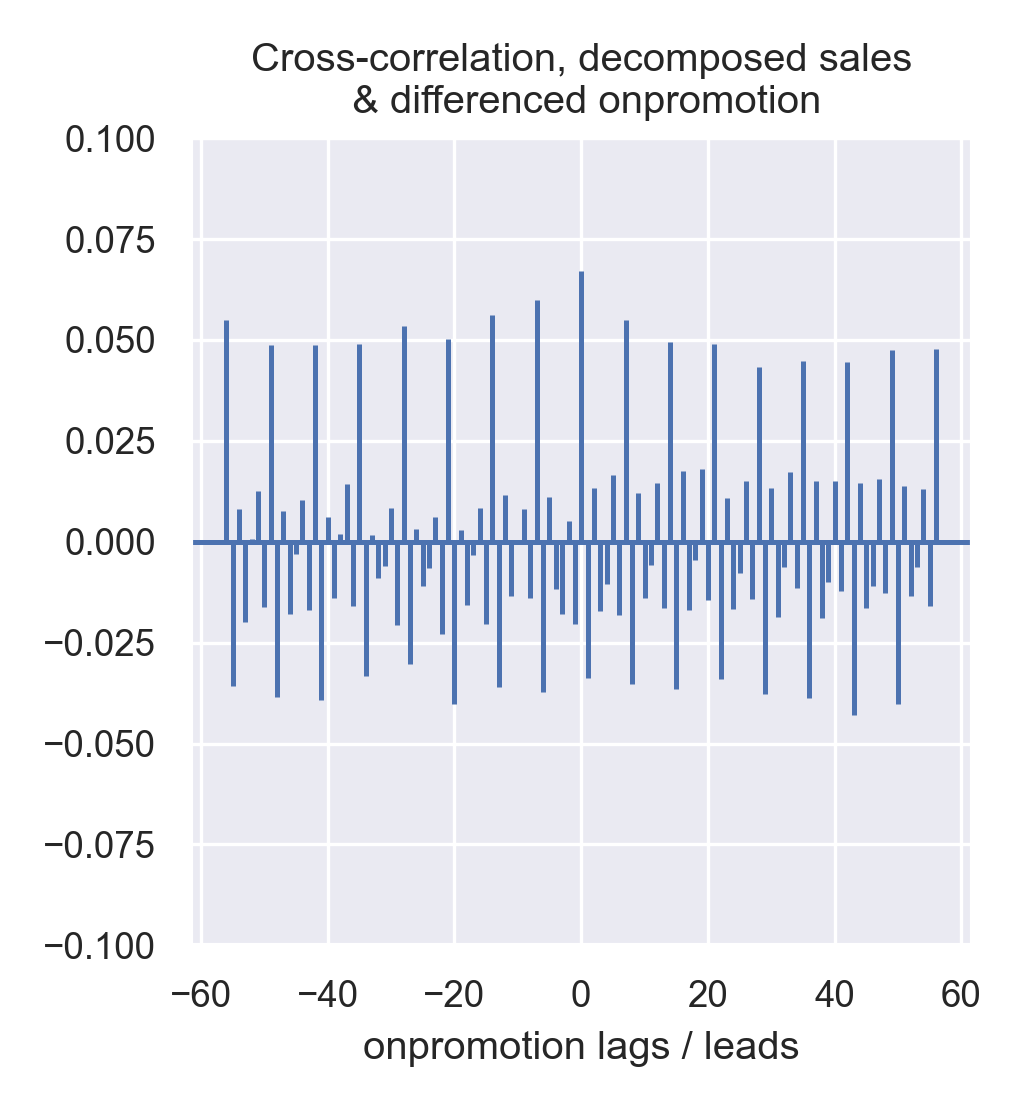
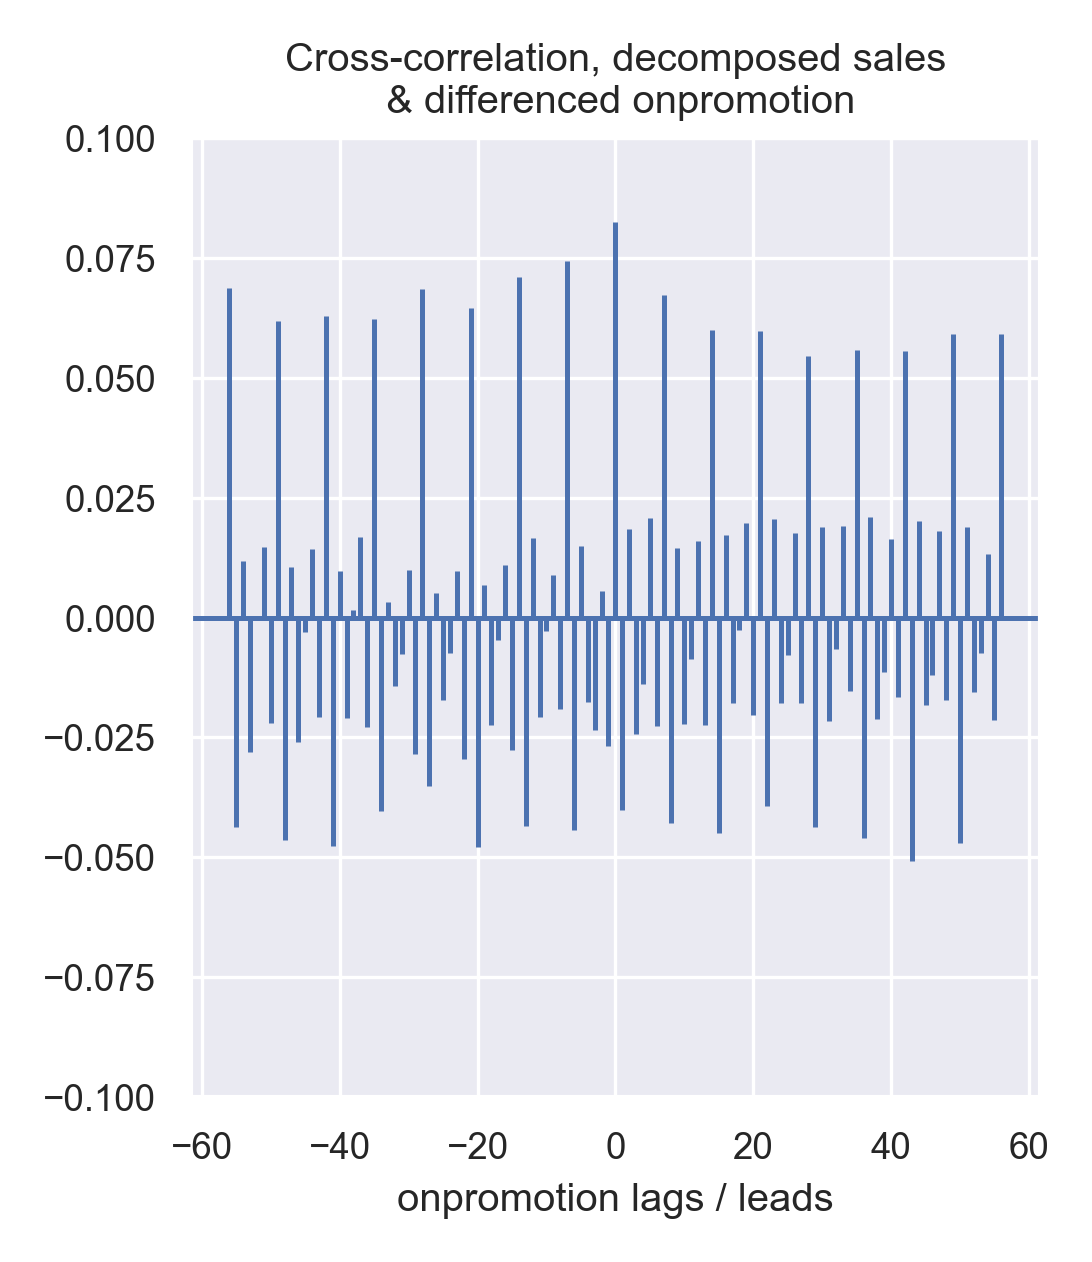
Finish testing darts decomposition on 2017

diff --git a/ModelLags.py b/ModelLags.py
@@ -1,0 +1,189 @@
+# TIME SERIES REGRESSION PART 1 - KAGGLE STORE SALES COMPETITION
+
+
+# TIME EFFECTS LAGS & COVARIATES MODEL SCRIPT
+
+import pandas as pd 
+import numpy as np
+import matplotlib.pyplot as plt
+import seaborn as sns
+
+
+# Set printing options
+np.set_printoptions(suppress=True, precision=4)
+pd.options.display.float_format = '{:.4f}'.format
+
+
+# Set plotting options
+plt.rcParams['figure.dpi'] = 300
+plt.rcParams['savefig.dpi'] = 300
+plt.rcParams["figure.autolayout"] = True
+sns.set_theme(context="paper")
+
+
+# Load 13-17 original sales
+from darts import TimeSeries
+df_train = pd.read_csv(
+  "./ModifiedData/Final/train_modified_timefeats.csv", encoding="utf-8")
+df_train = df_train.set_index(pd.to_datetime(df_train.date))
+df_train = df_train.drop("date", axis=1)
+total_sales = df_train.groupby("date").sales.sum()
+ts_orig = TimeSeries.from_series(total_sales, freq="D")
+from darts.dataprocessing.transformers import MissingValuesFiller
+na_filler = MissingValuesFiller()
+ts_orig = na_filler.transform(ts_orig)
+
+
+# Load 14-17 decomposed sales and covariates
+sales_covars = pd.read_csv(
+  "./ModifiedData/Final/sales_decomped_feats.csv", encoding="utf-8")
+
+
+# Set datetime index
+sales_covars = sales_covars.set_index(pd.to_datetime(sales_covars.date, dayfirst=True))
+sales_covars = sales_covars.drop("date", axis=1)
+
+
+# Create darts time series from decomposed sales sales series
+ts = TimeSeries.from_series(sales_covars["sales"], freq="D")
+
+
+# Make Darts time series with lags & covariates
+ts_covars = TimeSeries.from_dataframe(
+  sales_covars[["oil_ma336", "trns_ma7"]], freq="D", fill_missing_dates=False)
+
+
+# Load 14-17 time preds, make darts series
+preds_time = TimeSeries.from_csv(
+  "./ModifiedData/Final/preds_model1.csv", time_col = "time", freq = "D")
+
+
+# Define functions to perform log transformation and reverse it
+def trafo_log(x):
+  return x.map(lambda x: np.log(x+1))
+
+def trafo_exp(x):
+  return x.map(lambda x: np.exp(x)-1)
+
+
+# Train-test split (pre-post 2017)
+y_train, y_val = ts[:-227], trafo_log(ts_orig[-227:])
+x_train, x_val = ts_covars[:-227], ts_covars[-227:]
+
+
+# Scale covariates
+from sklearn.preprocessing import StandardScaler
+from darts.dataprocessing.transformers import Scaler
+scaler = Scaler(StandardScaler())
+x_train = scaler.fit_transform(x_train)
+x_val = scaler.transform(x_val)
+
+
+# Specify models: Baseline, ARIMA, linear, random forest
+from darts.models.forecasting.baselines import NaiveDrift, NaiveSeasonal
+from darts.models.forecasting.arima import ARIMA
+from darts.models.forecasting.linear_regression_model import LinearRegressionModel
+from darts.models.forecasting.random_forest import RandomForest
+
+model_drift = NaiveDrift()
+model_seasonal = NaiveSeasonal()
+
+model_arima = ARIMA(p = 1, d = 0, q = 0, trend = "n", random_state = 1923)
+
+model_linear = LinearRegressionModel(
+  lags = 1,
+  lags_future_covariates = [0])
+  
+model_forest = RandomForest(
+  lags = 1,
+  lags_future_covariates = [0], 
+  random_state = 1923,
+  n_jobs = 3)
+
+
+# Fit models on train data (pre-2017), predict validation data (2017)
+model_drift.fit(y_train)
+pred_drift = model_drift.predict(n = 227) + preds_time[-227:]
+
+model_seasonal.fit(y_train)
+pred_seasonal = model_seasonal.predict(n = 227) + preds_time[-227:]
+
+model_arima.fit(y_train)
+pred_arima = model_arima.predict(n = 227) + preds_time[-227:]
+
+model_linear.fit(y_train, future_covariates = x_train)
+pred_linear = model_linear.predict(n = 227, future_covariates = x_val) + preds_time[-227:]
+
+model_forest.fit(y_train, future_covariates = x_train)
+pred_forest = model_forest.predict(n = 227, future_covariates = x_val) + preds_time[-227:]
+
+
+# Define model scoring function
+from darts.metrics import mape, rmse, rmsle
+def perf_scores(val, pred, model="drift"):
+  
+  scores_dict = {
+    "RMSE": rmse(trafo_exp(val), trafo_exp(pred)), 
+    "RMSLE": rmse(val, pred), 
+    "MAPE": mape(trafo_exp(val), trafo_exp(pred))
+      }
+      
+  print("Model: " + model)
+  
+  for key in scores_dict:
+    print(
+      key + ": " + 
+      str(round(scores_dict[key], 4))
+       )
+  print("--------")  
+
+
+# Score models' performance
+perf_scores(y_val, pred_drift, model="Naive drift")
+perf_scores(y_val, pred_seasonal, model="Naive seasonal")
+perf_scores(y_val, pred_arima, model="ARIMA")
+perf_scores(y_val, pred_linear, model="Linear")
+perf_scores(y_val, pred_forest, model="Random forest")
+
+
+# FIG14: Plot models' predictions against actual values
+fig14, axes14 = plt.subplots(3, sharex=True, sharey=True)
+fig14.suptitle("Actual vs. predicted sales, hybrid models,\n black = Actual")
+
+# ARIMA
+trafo_exp(y_val).plot(ax = axes14[0], label="Actual")
+trafo_exp(pred_arima).plot(ax = axes14[0], label="Predicted")
+axes14[0].set_title("Linear regression + ARIMA")
+
+# Linear regression
+trafo_exp(y_val).plot(ax = axes14[1], label="Actual")
+trafo_exp(pred_linear).plot(ax = axes14[1], label="Predicted")
+axes14[1].set_title("Linear regression + Linear regression")
+
+# Random forest
+trafo_exp(y_val).plot(ax = axes14[2], label="Actual")
+trafo_exp(pred_forest).plot(ax = axes14[2], label="Predicted")
+axes14[2].legend("", frameon = False)
+axes14[2].set_title("Linear regression + Random forest")
+
+# Show fig14
+plt.show()
+fig14.savefig("./Plots/LagsModel/2017test.png", dpi=300)
+plt.close("all")
+
+
+# Go back to ModelTime's end
+
+# Perform decomposition in Sklearn:
+  # Fit, predict and retrieve residuals for 2013-2016 (train)
+  # Predict and retrieve residuals for 2017 (valid)
+  # Add them together and export them, use the preds as model 1 preds, and residuals as model 2 train
+
+# Redo Lags EDA with Sklearn decomposed residuals
+
+# Redo ModelLags with new features, Sklearn time preds and decomposed residuals
+
+
+
+
+

diff --git a/ModelTime.py b/ModelTime.py
@@ -106,8 +106,7 @@ model_fft = FFT(
 )
 
 model_linear = LinearRegressionModel(
-  lags_future_covariates = [0],
-  output_chunk_length = 15)
+  lags_future_covariates = [0])
 
 
 # Fit models on train data (pre-2017), predict validation data (2017)
@@ -172,23 +171,26 @@ plt.close("all")
 
 
 # Backtest linear regression
-# array([120080.4214,         nan,     31.611 ])
+# array([78298.2808,     0.1552,    20.0684])
 model_linear.backtest(
-  ts, future_covariates = ts_timefeats, start = 365,
-  forecast_horizon = 15, stride = 1, metric = [rmse, rmsle, mape],
+  ts, 
+  future_covariates = ts_timefeats, 
+  start = 365, stride = 1, 
+  metric = [rmse, rmsle, mape],
   verbose = True)
 
 
-# Retrieve historical forecasts for linear regression
+# Retrieve historical forecasts and 14-17 decomposed residuals for linear regression
 pred_linear_hist = model_linear.historical_forecasts(
-  ts, future_covariates = ts_timefeats, start = 365,
-  forecast_horizon = 15, stride = 1,
+  trafo_log(ts), 
+  future_covariates = ts_timefeats, start = 365, stride = 1,
   verbose = True)
+res_linear = trafo_log(ts[365:]) - pred_linear_hist
 
 
 # Plot historical forecasts for linear regression
 ts.plot(label="Actual")
-pred_linear_hist.plot(label="Predicted")
+trafo_exp(pred_linear_hist).plot(label="Predicted")
 plt.title("Time decomposition linear model,\n historical forecasts")
 plt.ylabel("sales")
 plt.show()
@@ -196,24 +198,16 @@ plt.savefig("./Plots/TimeModel/LinearHistorical.png", dpi=300)
 plt.close("all")
 
 
-# Retrieve predictions and residuals for 2014-2017
-res_linear = model_linear.residuals(
-  trafo_log(ts), future_covariates = ts_timefeats, forecast_horizon = 1,
-  verbose = True)
-sales_decomped = res_linear[350:]
-preds_time = trafo_log(ts[365:]) - res_linear[350:]
-
-
 # Diagnose decomped sales innovation residuals
 from darts.utils.statistics import plot_residuals_analysis, plot_pacf
-plot_residuals_analysis(sales_decomped)
+plot_residuals_analysis(res_linear)
 plt.show()
 plt.savefig("./Plots/TimeModel/InnoResidsDiag.png", dpi=300)
 plt.close("all")
 
 
 # PACF plot of decomped sales residuals
-plot_pacf(sales_decomped, max_lag=56)
+plot_pacf(res_linear, max_lag=56)
 plt.title("Partial autocorrelation plot,\n time decomposed sales")
 plt.xlabel("Lags")
 plt.ylabel("PACF")
@@ -228,15 +222,17 @@ plt.close("all")
 
 # KPSS and ADF stationarity test on decomped sales residuals
 from darts.utils.statistics import stationarity_test_kpss, stationarity_test_adf
-stationarity_test_kpss(sales_decomped) # Null rejected, data is non-stationary
-stationarity_test_adf(sales_decomped) # Null rejected, data is stationary around a constant
+stationarity_test_kpss(res_linear) # Null rejected, data is non-stationary
+stationarity_test_adf(res_linear) # Null rejected, data is stationary around a constant
 
 
-# Save decomposed sales for lags & covariates EDA
-sales_decomped.pd_dataframe().to_csv(
+# Save 14-17 decomposed sales for lags & covariates model
+res_linear.pd_dataframe().to_csv(
   "./ModifiedData/Final/sales_decomped.csv", index=True, encoding="utf-8")
 
 
-# Save predictions of model 1 to be added later to model 2 predictions
-preds_time.pd_dataframe().to_csv(
+# Save 14-17 predictions of model 1
+pred_linear_hist.pd_dataframe().to_csv(
   "./ModifiedData/Final/preds_model1.csv", index=True, encoding="utf-8")
+
+

diff --git a/EDALags.py b/EDALags.py
@@ -86,7 +86,7 @@ plt.close("all")
 
 # FIG9: Sales lag scatterplots
 fig9, axes9 = plot_lags(
-  sales_covariates["sales"], lags = [1,2,3,4,5,6,7,8,9],
+  sales_covariates["sales"], lags = [1,2,3,4,5,6,7,8, 9],
   suptitle = "Sales lags")
   
 # Show fig9
@@ -95,32 +95,28 @@ fig9.savefig("./Plots/LagsEDA/SalesLags.png", dpi=300)
 plt.close("all")
 
 
-# Calculate 9-day exponential moving average of sales lags
-sales_covariates["sales_ema9"] = sales_covariates["sales"].rolling(
-  window = 9, min_periods = 1, center = False, win_type = "exponential").mean()
+# Calculate 8-day exponential moving average of sales lags
+sales_covariates["sales_ema8"] = sales_covariates["sales"].rolling(
+  window = 8, min_periods = 1, center = False, win_type = "exponential").mean()
 
 
-# Plot sales_ema9 vs sales  
+# Plot sales_ema8 vs sales  
 sns.regplot(
   data = sales_covariates,
-  x = "sales_ema9",
+  x = "sales_ema8",
   y = "sales"
 )
-plt.title("Relationship of sales and 9-day\n exponential moving average of sales")
+plt.title("Relationship of sales and 8-day\n exponential moving average of sales")
 plt.show()
-plt.savefig("./Plots/LagsEDA/SalesEma9.png", dpi=300)
+plt.savefig("./Plots/LagsEDA/SalesEma8.png", dpi=300)
 plt.close("all")
 
 
-# Compare correlations of sales with lag 1 and sales_ema9
-pearsonr(sales_covariates["sales"], sales_covariates["sales"].shift(1).fillna(method="bfill")) # 0.85
-spearmanr(sales_covariates["sales"], sales_covariates["sales"].shift(1).fillna(method="bfill")) # 0.86
-pearsonr(sales_covariates["sales"], sales_covariates["sales_ema9"]) #0.7
-spearmanr(sales_covariates["sales"], sales_covariates["sales_ema9"]) #0.72
-
-
-# Drop sales_ema9
-sales_covariates = sales_covariates.drop("sales_ema9", axis=1)
+# Compare correlations of sales with lag 1 and sales_ema8
+pearsonr(sales_covariates["sales"], sales_covariates["sales"].shift(1).fillna(method="bfill")) # 0.8
+spearmanr(sales_covariates["sales"], sales_covariates["sales"].shift(1).fillna(method="bfill")) # 0.81
+pearsonr(sales_covariates["sales"], sales_covariates["sales_ema8"]) #0.7
+spearmanr(sales_covariates["sales"], sales_covariates["sales_ema8"]) #0.7
 
 
 # FIG10: Regplots of oil moving averages & sales
@@ -413,7 +409,7 @@ plt.savefig("./Plots/LagsEDA/TrnsCCF.png", dpi=300)
 plt.close("all")
 
 
-# FIG13: Onpromotion MAs
+# FIG13: Transactions MAs
 fig13, axes13 = plt.subplots(2,2)
 fig13.suptitle("Transactions change moving averages\n & decomposed sales")
 

diff --git a/JunkCode.py b/JunkCode.py
@@ -471,3 +471,21 @@ plt.title("Cross-correlation, decomposed sales & oil price change")
 plt.show()
 plt.close("all")
 
+
+# Retrieve predictions and residuals for 2014-2017
+res_linear = model_linear.residuals(
+  trafo_log(ts), future_covariates = ts_timefeats, forecast_horizon = 1,
+  verbose = True)
+sales_decomped = res_linear[350:]
+preds_time = trafo_log(ts[365:]) - res_linear[350:]
+
+
+# Save 17 predictions of model 1 to be added later to model 2 17 predictions
+pred_linear.pd_dataframe().to_csv(
+  "./ModifiedData/Final/preds_model1_17.csv", index=True, encoding="utf-8")
+  
+  
+# Load 17 time preds
+preds_time17 = TimeSeries.from_csv(
+  "./ModifiedData/Final/preds_model1_17.csv", time_col = "date", freq = "D")
+
